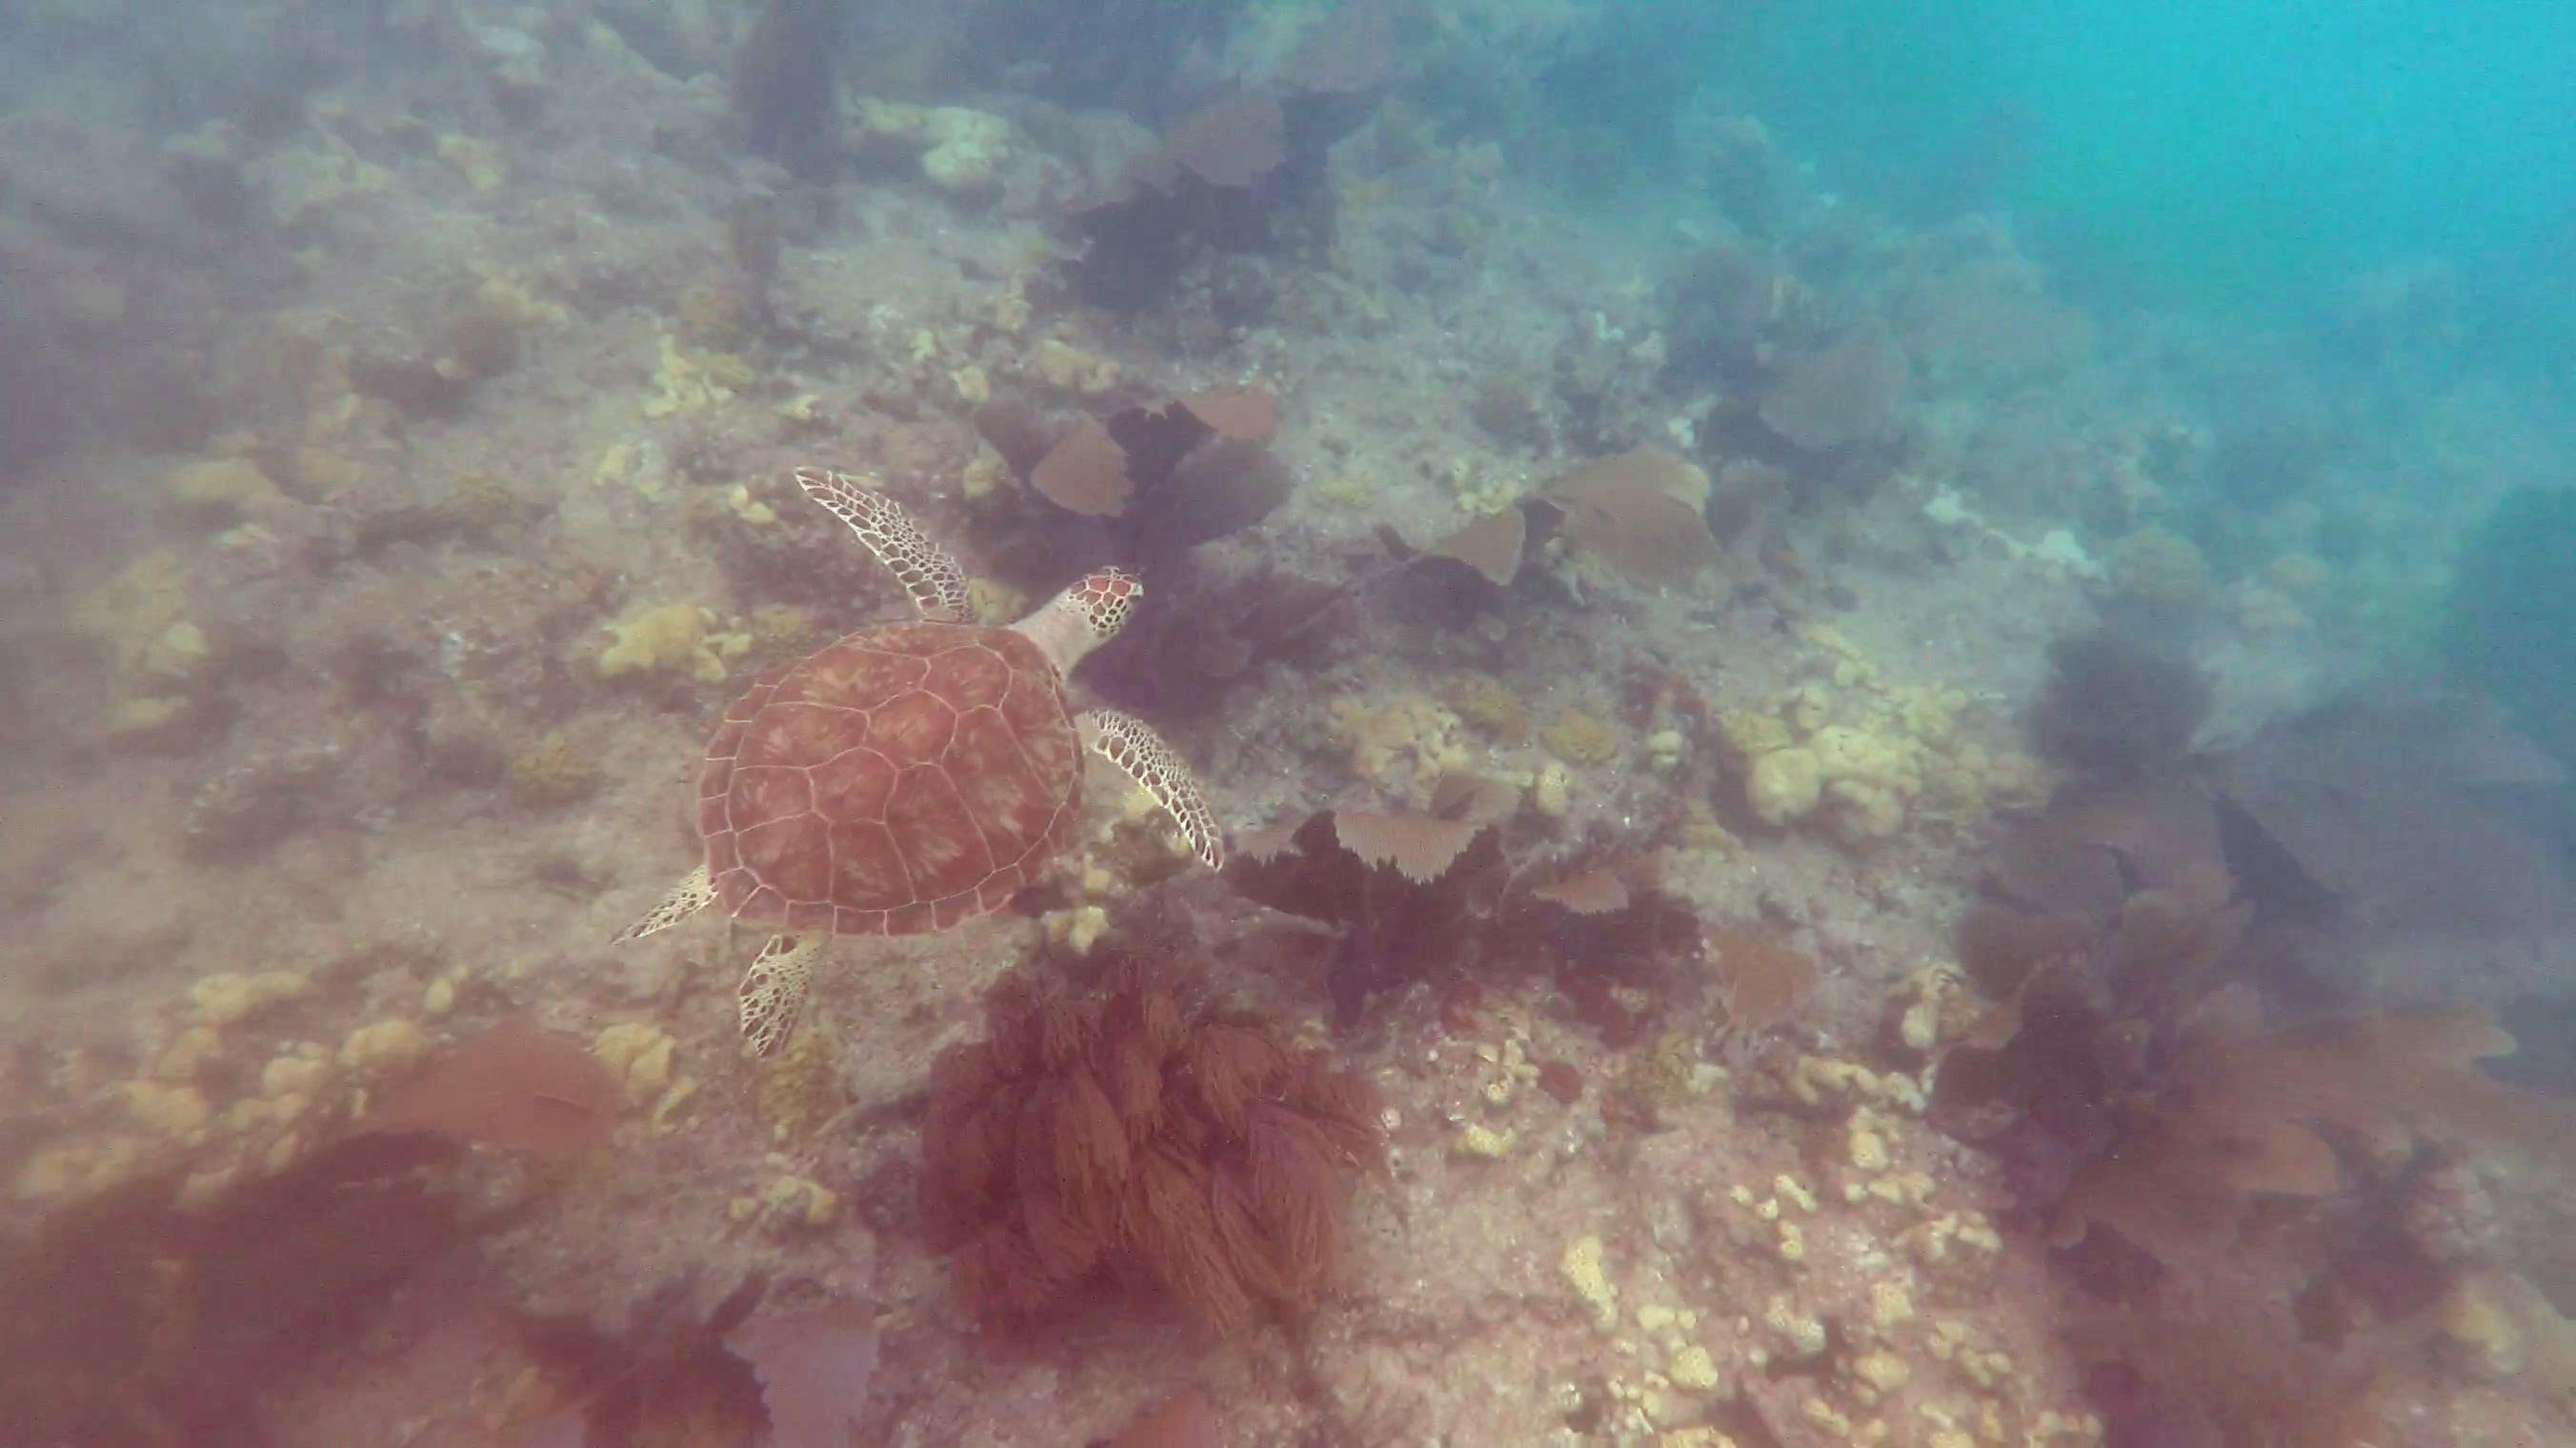
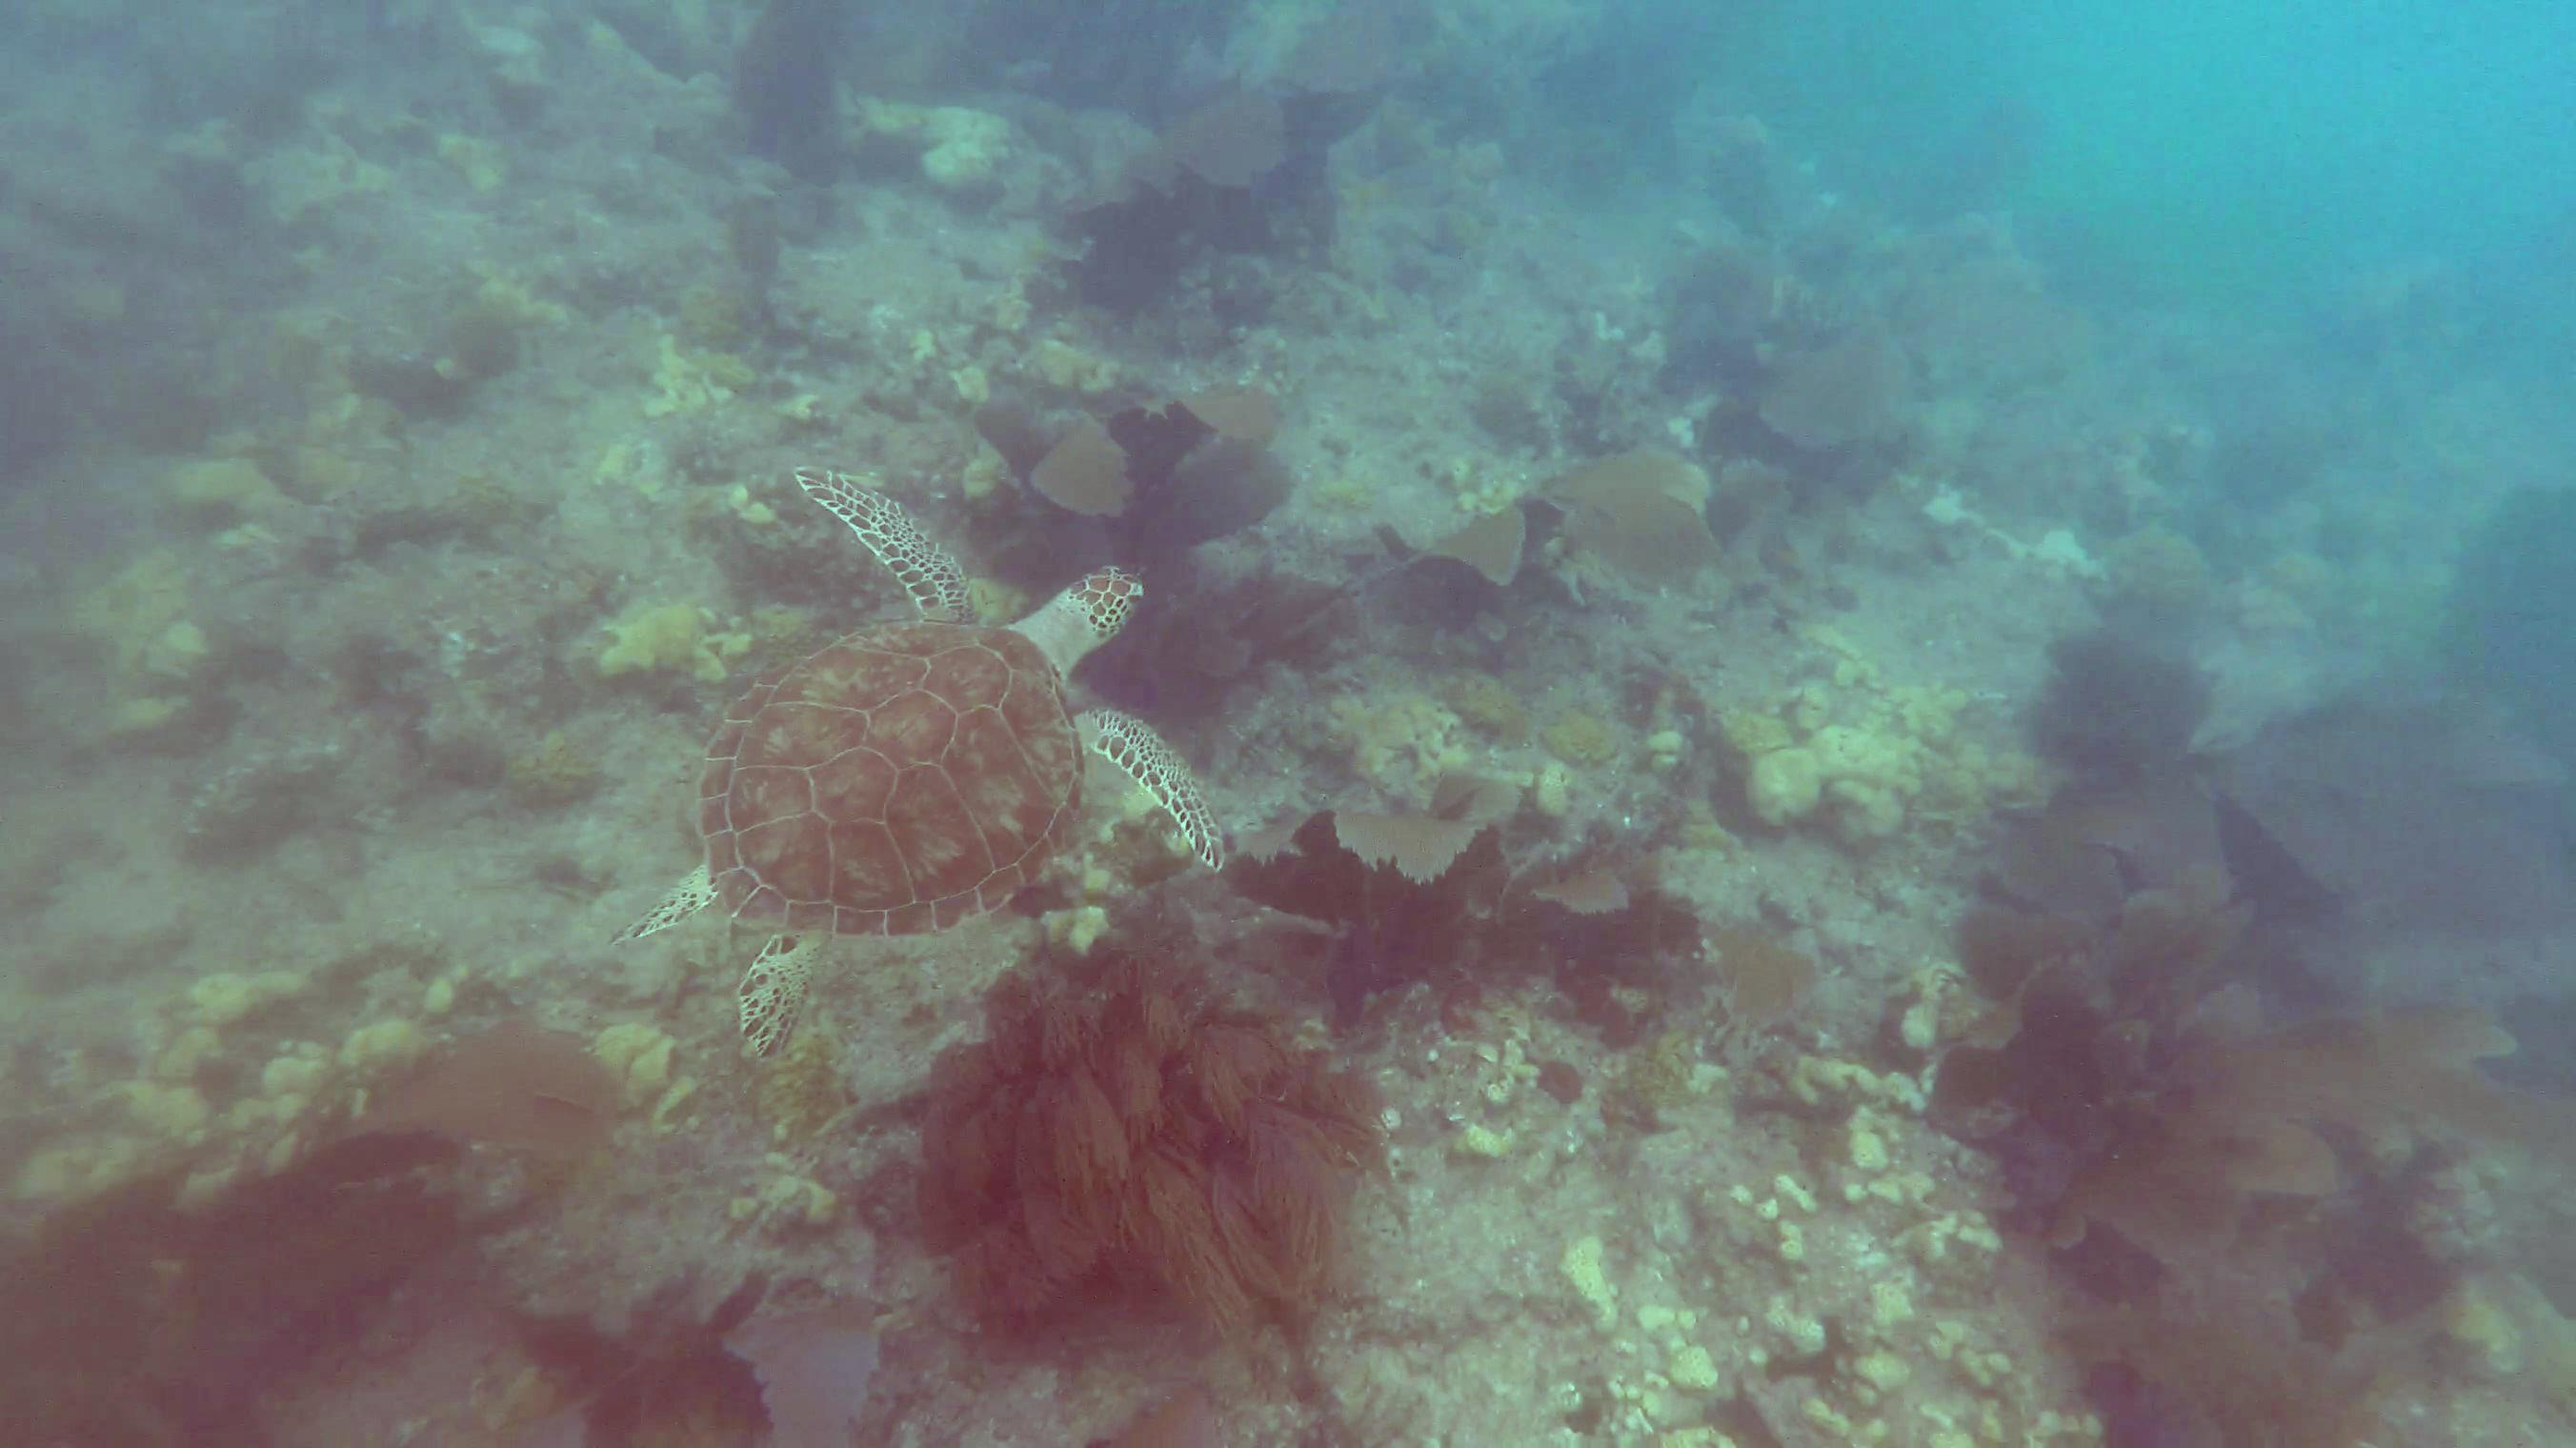
dont transform red values

diff --git a/imageFix.py b/imageFix.py
@@ -16,9 +16,9 @@ for x in range(width):
         red.append(pixelColour[0])
         green.append(pixelColour[1])
         blue.append(pixelColour[2])
-uniqueRed, countsRed = np.unique(red, return_counts=True)
+"""uniqueRed, countsRed = np.unique(red, return_counts=True)
 uniqueGreen, countsGreen = np.unique(green, return_counts=True)
-uniqueBlue, countsBlue = np.unique(blue, return_counts=True)
+uniqueBlue, countsBlue = np.unique(blue, return_counts=True)"""
 redMean = np.mean(red)
 redSTD = np.std(red)
 greenMean = np.mean(green)
@@ -36,7 +36,7 @@ plt.plot(uniqueGreen, countsGreen / pixels, color='green')
 plt.plot(uniqueBlue, countsBlue / pixels, color='blue')
 plt.plot(x, y, color='black')
 plt.show()"""
-redTransformed = []
+"""redTransformed = []
 for r in red:
     diff = ((r - redMean) / redSTD)
     newValue = round(mu + diff*sigma)
@@ -45,7 +45,7 @@ for r in red:
     if newValue > 255:
         newValue = 255
     redTransformed.append(newValue)
-uniqueRedTransformed, countsRedTransformed = np.unique(redTransformed, return_counts=True)
+uniqueRedTransformed, countsRedTransformed = np.unique(redTransformed, return_counts=True)"""
 greenTransformed = []
 for g in green:
     diff = ((g - greenMean) / greenSTD)
@@ -74,5 +74,5 @@ plt.show()"""
 
 for x in range(width):
     for y in range(height):
-        origPixelMap[x, y] = (redTransformed[x * height + y], greenTransformed[x * height + y], blueTransformed[x * height + y])
-im.save('transformedTurtle.jpg')
+        origPixelMap[x, y] = (red[x * height + y], greenTransformed[x * height + y], blueTransformed[x * height + y])
+im.save('TransformedTurtle.jpg')
